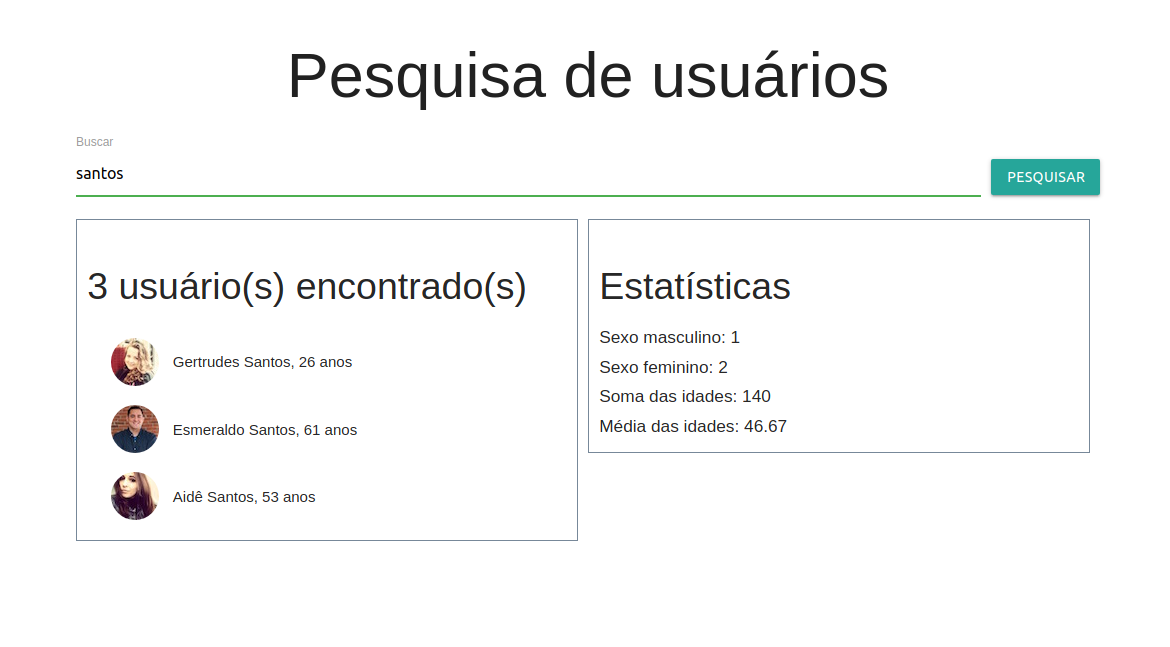
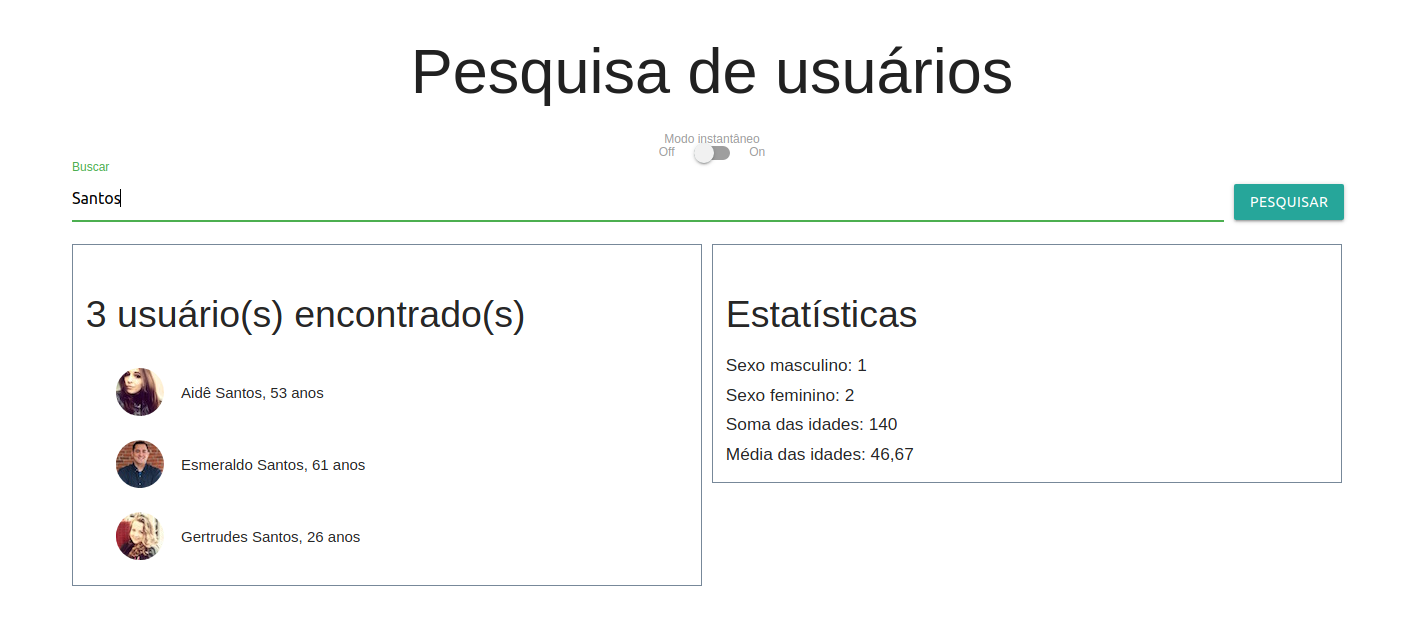
repair in switch search

diff --git a/css/style.css b/css/style.css
@@ -13,7 +13,10 @@ header .container {
 }
 
 .switch {
-  width: 15%;
+  width: 12%;
+  display: flex;
+  flex-direction: column;
+  align-items: center;
 }
 
 .snapshot {

diff --git a/README.md b/README.md
@@ -2,9 +2,9 @@
   <img alt="Desafio01" src=".github/Desafio01-BT-IGTI.png" width="100%">
 </p>
 
-# Desafio01-BT-IGTI
+## 💻 Projeto [Desafio01-BT-IGTI]
 
-## Este é o desafio do módulo 1 do Bootcamp de Desenvolvedor FullStack do IGTI
+### Este é o desafio do módulo 1 do Bootcamp de Desenvolvedor FullStack do IGTI
 
 O desafio é criar uma aplicação que colete dados de uma determinada API e mostre as estatísticas a partir dos nomes pesquisados.
 
@@ -21,3 +21,15 @@ Exercitar os seguintes conceitos trabalhados no Módulo:
 - Realizar diversos cálculos com array methods como map, filter e reduce.
 
 - Realizar requisições HTTP com o comando fetch.
+
+## ✨ Tecnologias
+
+Esse projeto foi desenvolvido com as seguintes tecnologias:
+
+- HTML
+- CSS
+- JavaScript
+
+## 🔖 Layout
+
+- Para layout foi utilizado o [materializecss](https://materializecss.com/).
